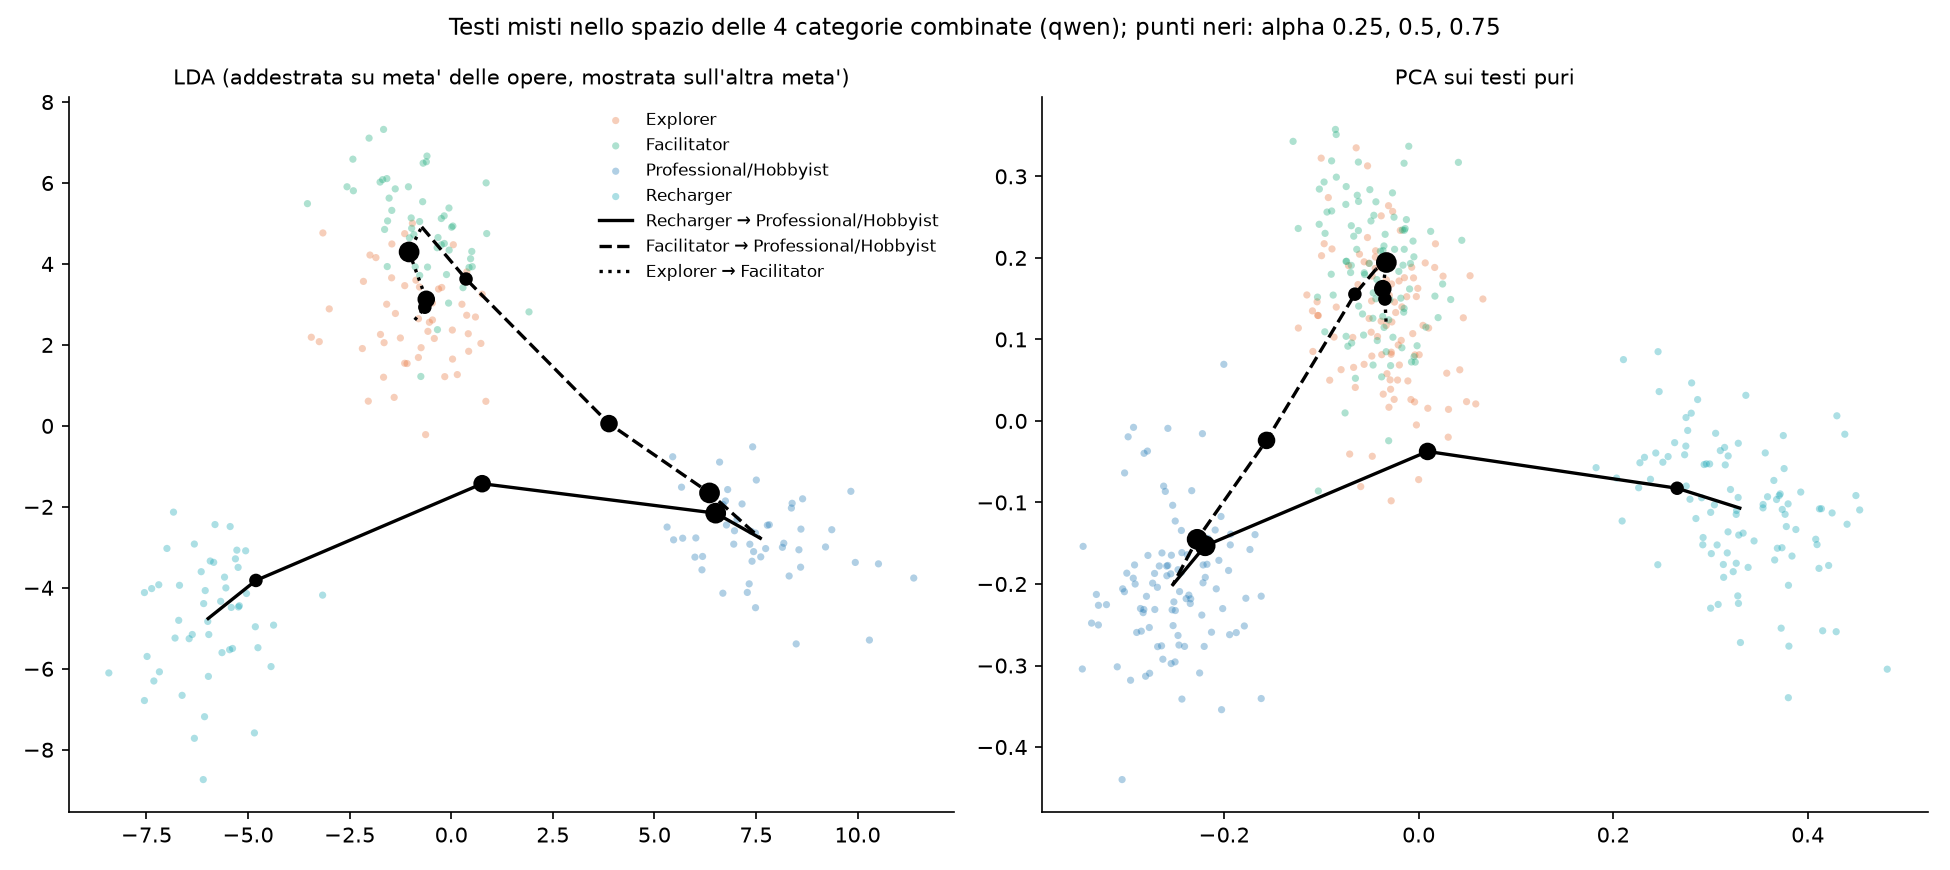
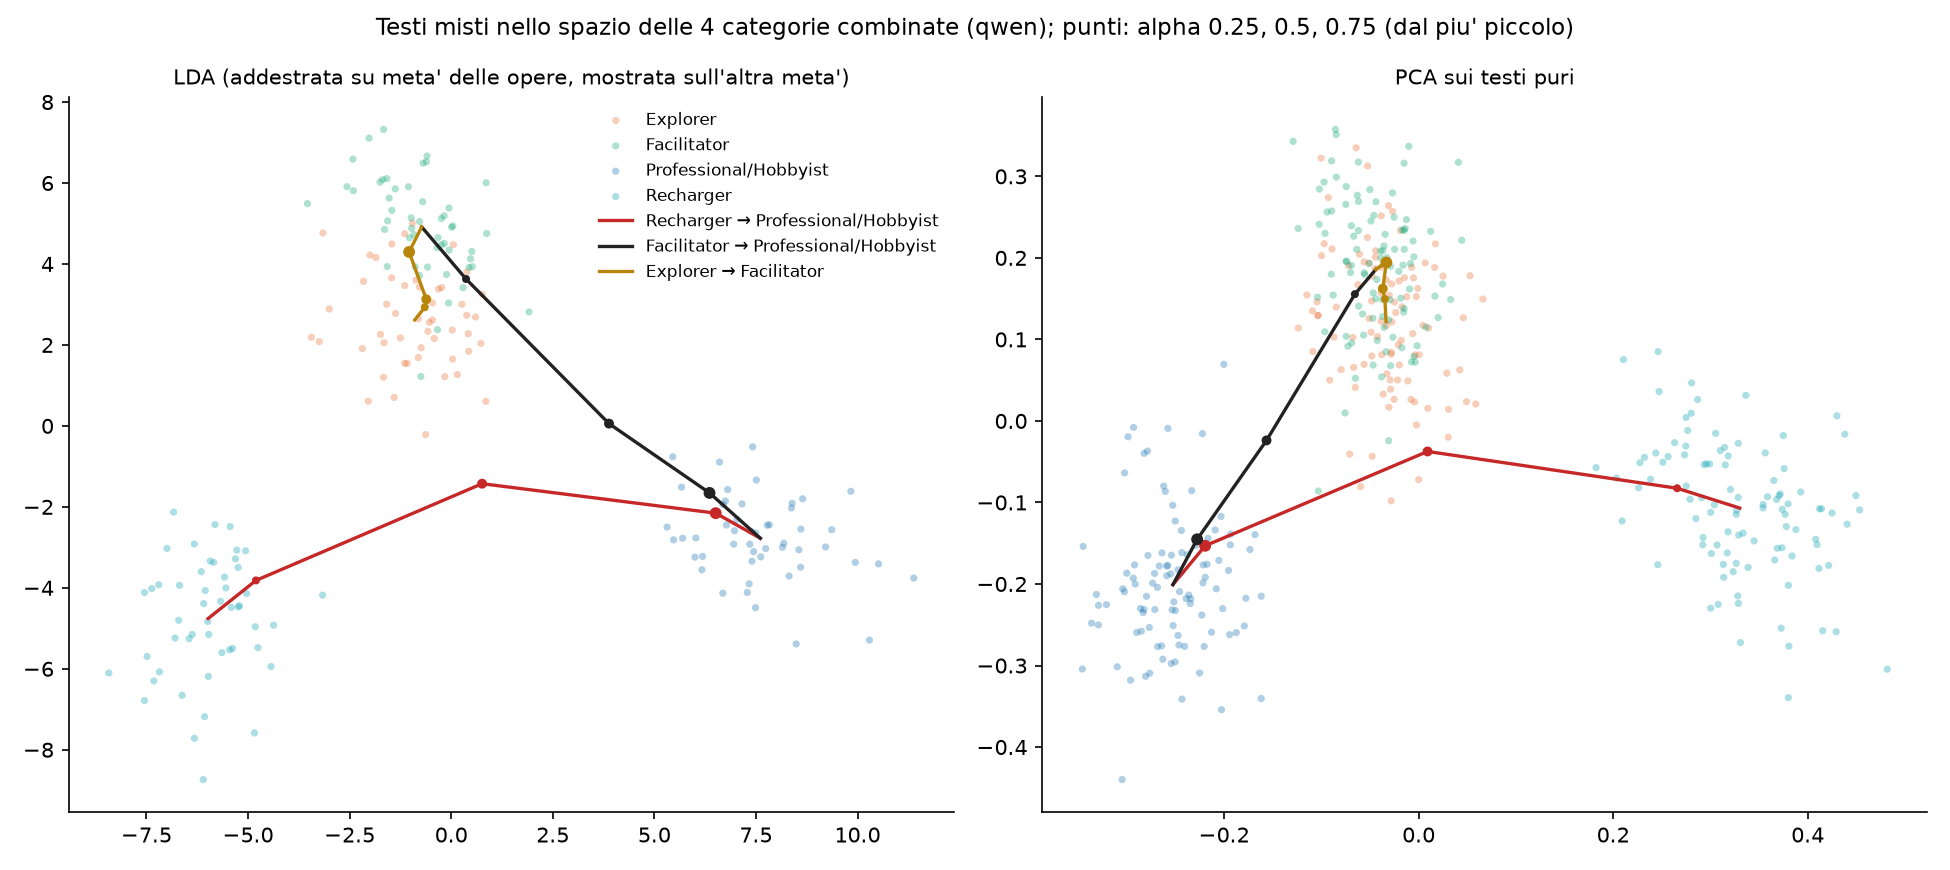
style(mixed_space): one color per pair, smaller alpha markers

diff --git a/src/museumbot/rq1_embeddings/mixed_space.py b/src/museumbot/rq1_embeddings/mixed_space.py
@@ -129,22 +129,24 @@ def figure(alias, Xc, M, rows, mix_arts, out) -> str:
              "PCA sui testi puri": (pca.transform(Xc.reshape(-1, D)).reshape(A, K, 2),
                                     pca.transform(M), np.ones(len(M), bool))}
     fig, axes = plt.subplots(1, 2, figsize=(13, 5.8))
-    styles = {"recharger+professional_hobbyist": "-", "facilitator+professional_hobbyist": "--",
-              "explorer+facilitator": ":"}
+    # un colore per coppia, lontano da quelli delle categorie
+    pair_colors = {"recharger+professional_hobbyist": "#C62828",
+                   "facilitator+professional_hobbyist": "#222222",
+                   "explorer+facilitator": "#B8860B"}
     for ax, (title, (Zp, Zm, keep)) in zip(axes, views.items()):
         for k, c in enumerate(CATS):
             ax.scatter(Zp[:, k, 0], Zp[:, k, 1], s=12, alpha=0.35, c=COLORS[c], label=LABELS[c],
                        edgecolors="none")
         for name, pts in trajectories(Zp, Zm, rows, keep).items():
             x, y = name.split("+")
-            ax.plot(pts[:, 0], pts[:, 1], styles[name], color="black", lw=1.6,
+            ax.plot(pts[:, 0], pts[:, 1], "-", color=pair_colors[name], lw=1.6,
                     label=f"{LABELS[x]} → {LABELS[y]}")
-            ax.scatter(pts[1:-1, 0], pts[1:-1, 1], s=[30, 55, 80], c="black", zorder=5)
+            ax.scatter(pts[1:-1, 0], pts[1:-1, 1], s=[8, 14, 22], c=pair_colors[name], zorder=5)
         ax.set_title(title, fontsize=10)
         ax.spines[["top", "right"]].set_visible(False)
     axes[0].legend(frameon=False, fontsize=8, loc="best")
     fig.suptitle(f"Testi misti nello spazio delle 4 categorie combinate ({alias}); "
-                 "punti neri: alpha 0.25, 0.5, 0.75", fontsize=11)
+                 "punti: alpha 0.25, 0.5, 0.75 (dal piu' piccolo)", fontsize=11)
     fig.tight_layout()
     FIGS.mkdir(exist_ok=True)
     path = FIGS / f"mixed_space_{alias}.png"
